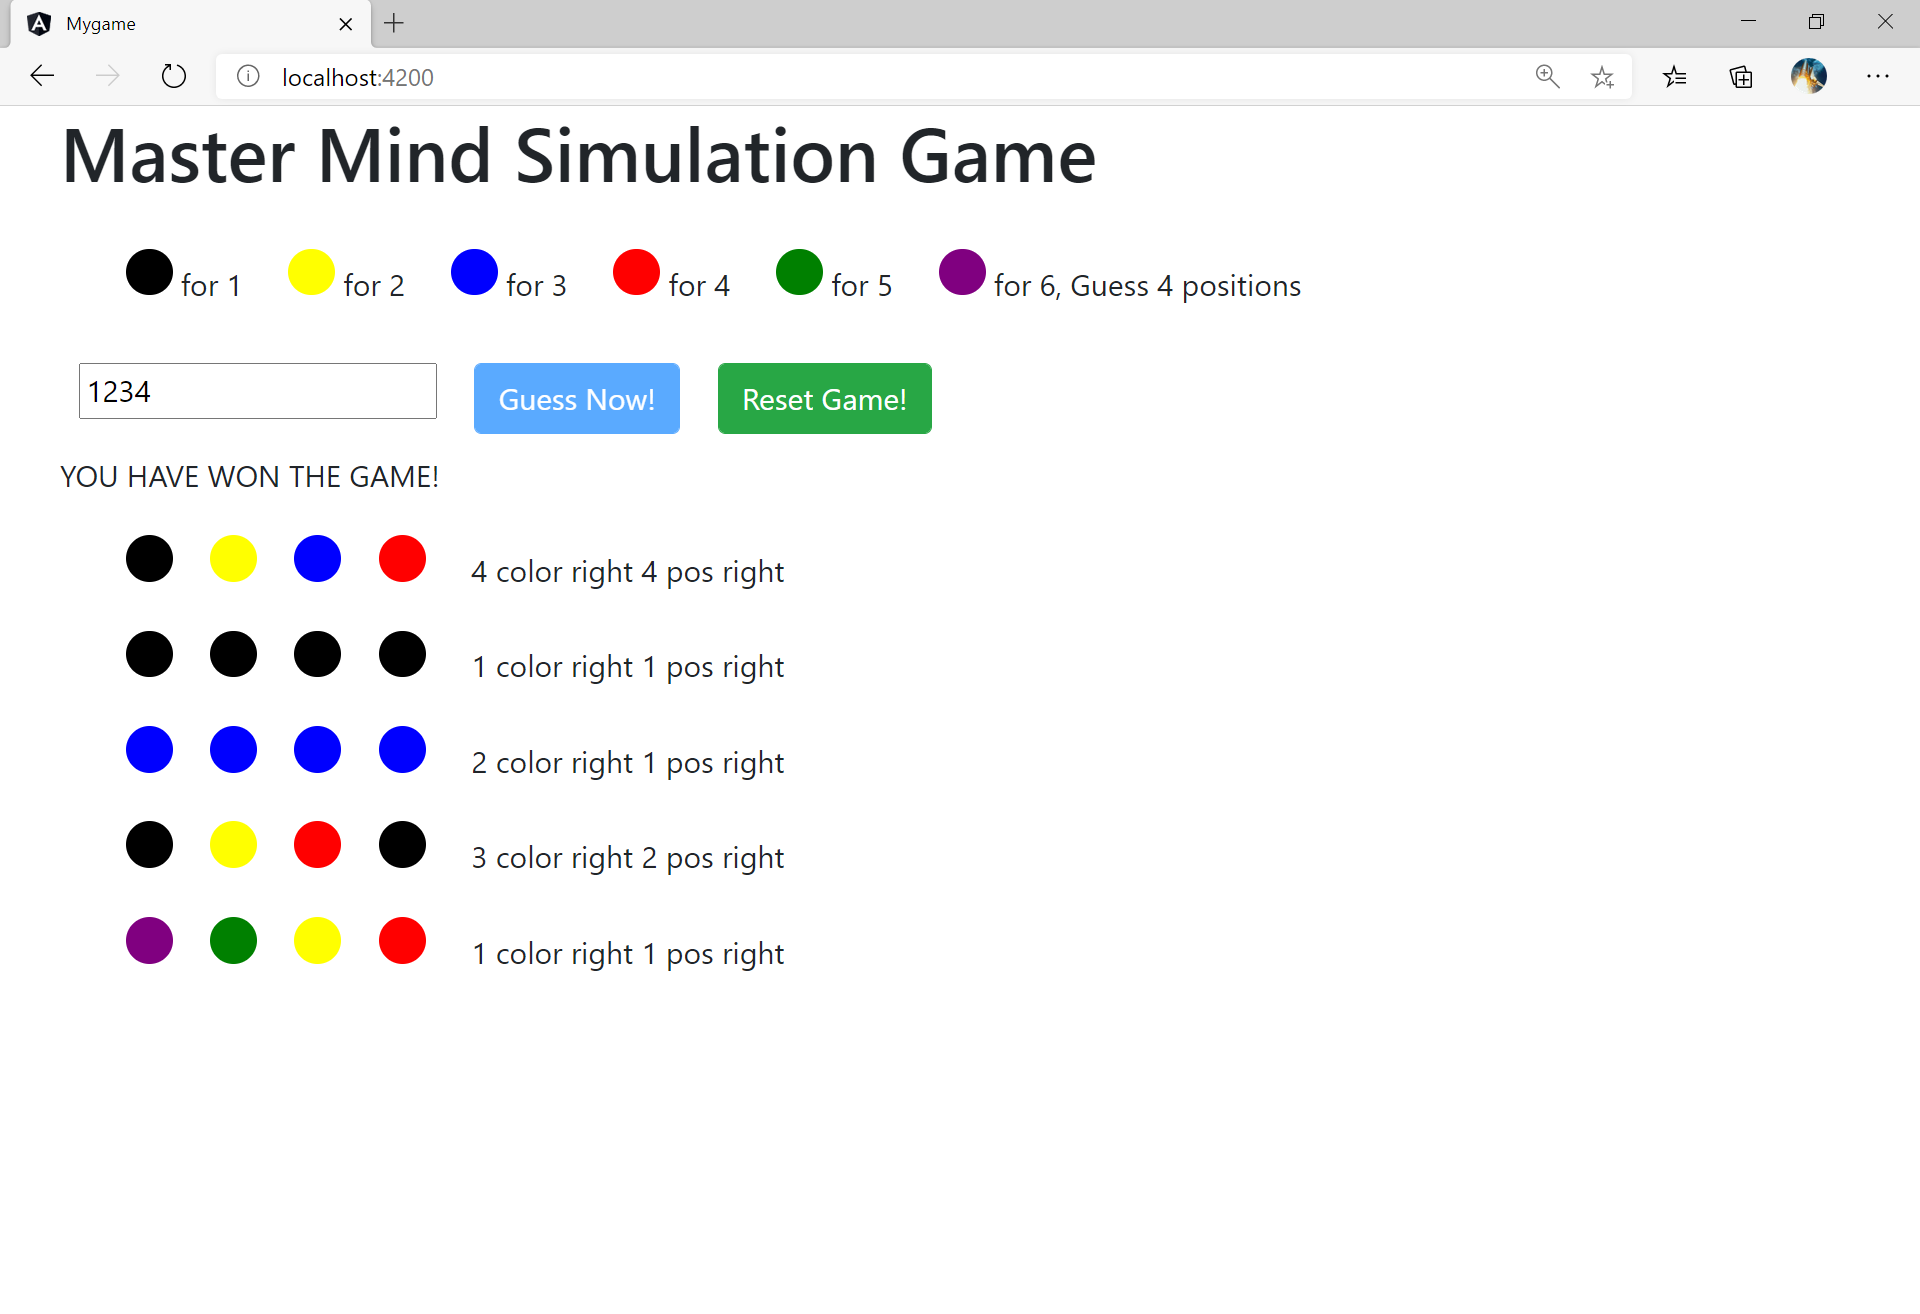
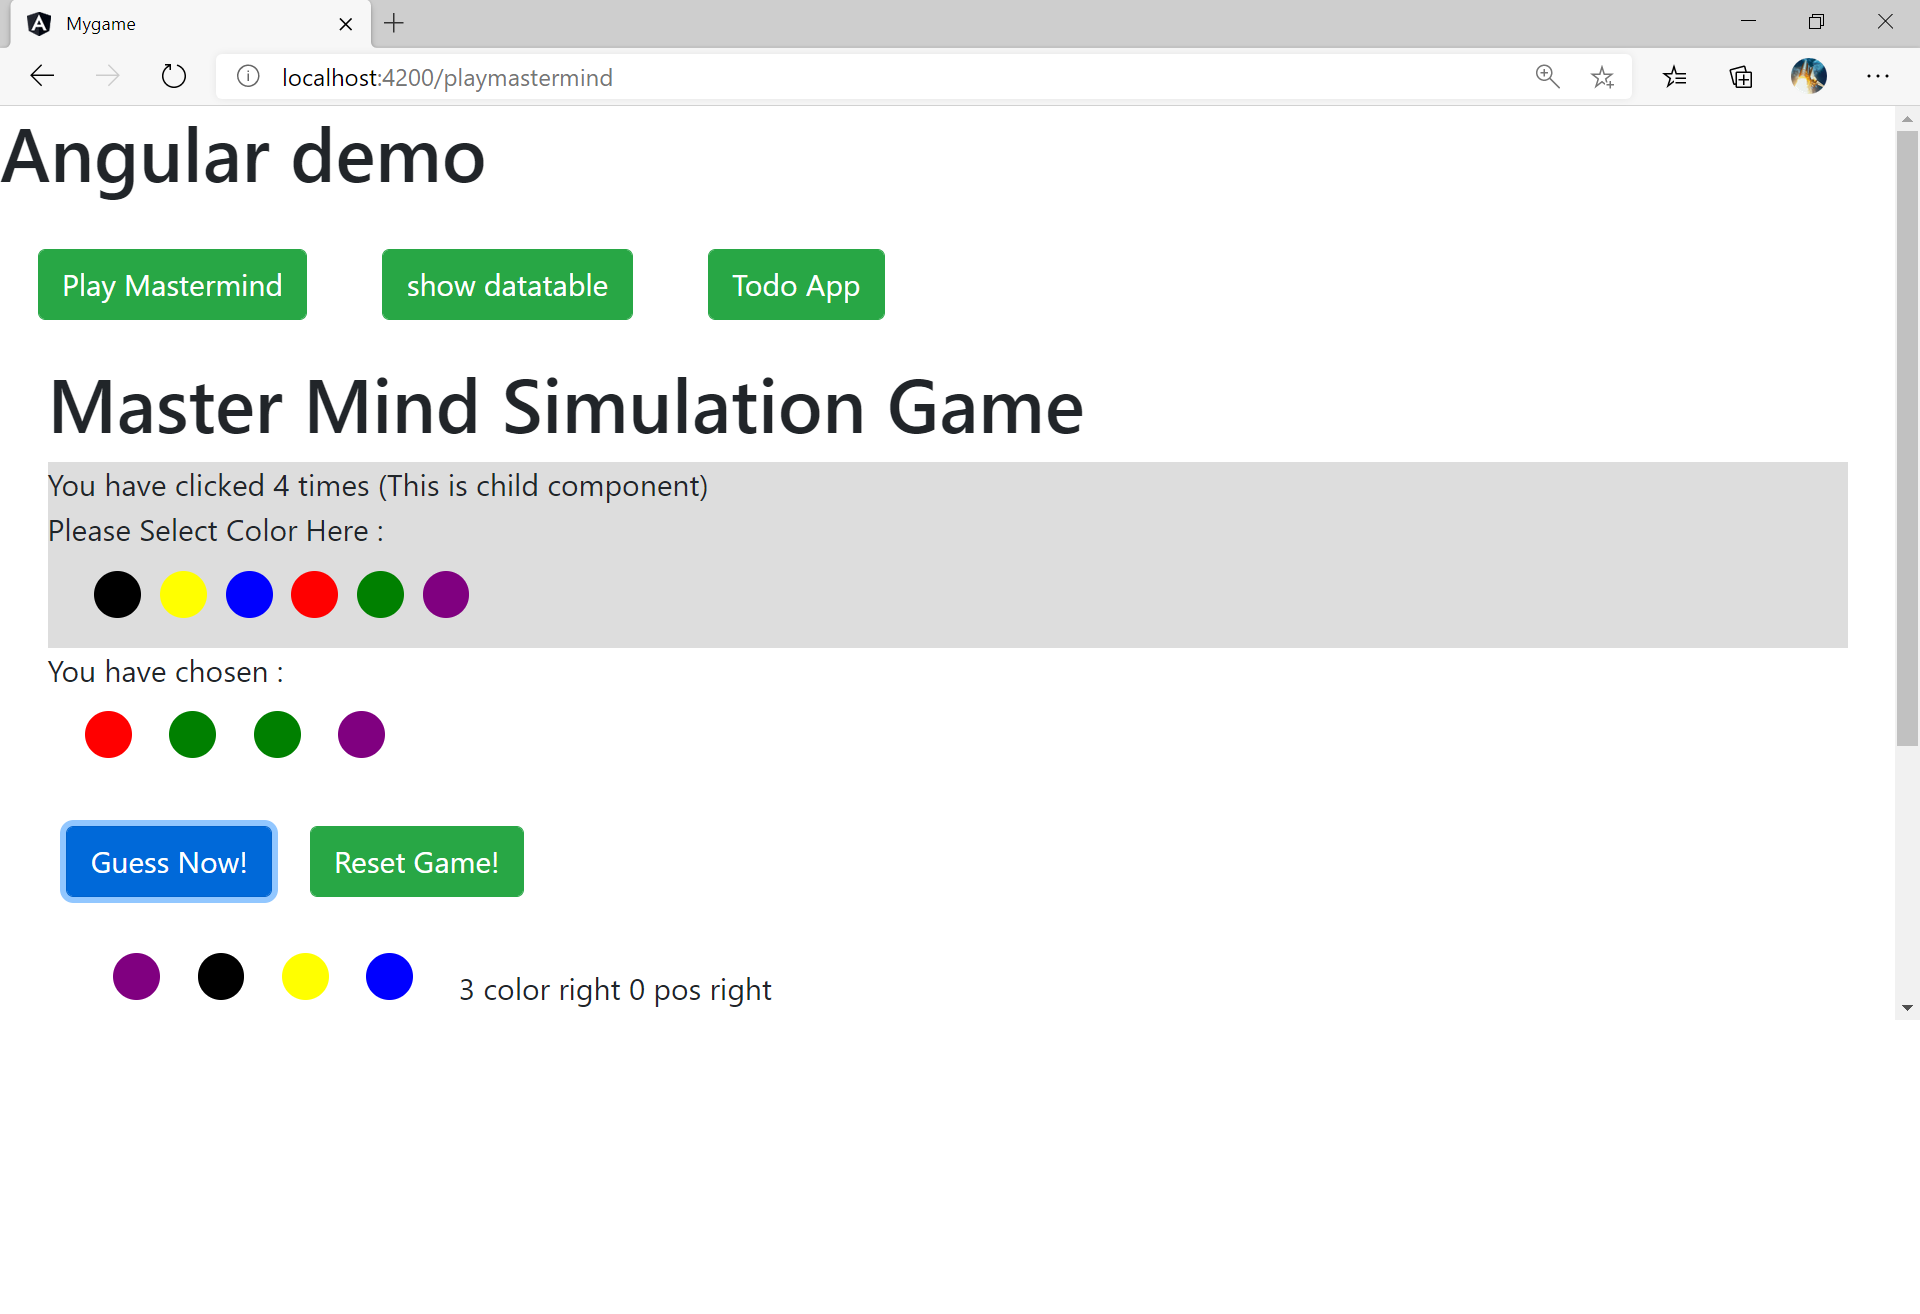
child-parent communication

diff --git a/src/app/gamemap/gamemap.component.html b/src/app/gamemap/gamemap.component.html
@@ -7,6 +7,8 @@
     </div>
   </div>
 
+  <app-colorselector [masterTrial]=clickedNumber (colorChosenRequest)="onJustChoseAColor($event)"></app-colorselector>
+<!--
   <div class="row"  style = "margin-top:20px" >
     <div class="col-sm">
          <span class="dot" [style.background-color]="getColorIdx(1)"></span> for 1
@@ -14,32 +16,46 @@
          <span class="dot" [style.background-color]="getColorIdx(3)"></span> for 3
          <span class="dot" [style.background-color]="getColorIdx(4)"></span> for 4
          <span class="dot" [style.background-color]="getColorIdx(5)"></span> for 5
-         <span class="dot" [style.background-color]="getColorIdx(6)"></span> for 6, Guess 4 positions 
-        
-         
+         <span class="dot" [style.background-color]="getColorIdx(6)"></span> for 6, Guess 4 positions     
     </div>
-
   </div>
+-->
 
 
-  <div class="row" style="margin-top:20px">
-  <span style="margin:10px">
-    <input type="text" [(ngModel)]="myCurrentGuess" /> 
-    </span>
-    <span style="margin:10px">
-    <button type="button" class="btn btn-primary" [disabled]="hasGameWon() == true" (click)="onGuessNow()" >Guess Now!</button>
-    </span>
-    <span style="margin:10px">
-    <button type="button" class="btn btn-success" (click)="onResetGameNow()" >Reset Game!</button>   
-    </span>
-  </div>
+  
 
   <div class="row">
      <span *ngIf="hasGameWon() == true">
        YOU HAVE WON THE GAME!
     </span> 
   </div>
-   
+
+   <!-- Draw your currently chosen Balls -->
+   <div class="row">
+     You have chosen :
+   </div>
+   <div class="row"  style = "margin-top:10px; margin-bottom:10px;" >
+         
+        <!-- your {{i+1}}th guess is {{item}} -->
+         <span *ngFor="let currBallColor of currentGuessBallList; index as i; ">
+            <span class="dot" [style.background-color]="currBallColor"></span> 
+          </span>
+    </div>
+    <div class="row" style="margin-top:20px">
+      <!--
+      <span style="margin:10px">
+        <input type="text" [(ngModel)]="myCurrentGuess" /> 
+        </span>
+        -->
+        <span style="margin:10px">
+        <button type="button" class="btn btn-primary" [disabled]="hasGameWon() == true" (click)="onGuessNow()" >Guess Now!</button>
+        </span>
+        <span style="margin:10px">
+        <button type="button" class="btn btn-success" (click)="onResetGameNow()" >Reset Game!</button>   
+        </span>
+      </div>
+
+
     <div class="row"  style = "margin-top:20px" *ngFor="let item of getGuessHistoryReverse(); index as i; ">
       <div class="col-sm">
            <!-- your {{i+1}}th guess is {{item}} -->
@@ -73,10 +89,7 @@
     <p></p>
     <p></p>
     <p></p>
-<p>Debug session :</p>
-<p>My current guess is {{myCurrentGuess}}</p>
-<p>guess position right : {{currentGuessResult.posRightCount}}</p>
-<p>guess color right  : {{currentGuessResult.colorRightCount}}</p>
-<p>is game Win : {{currentGuessResult.isGuessWinGame}}</p>
-<p>Hidden real answer : {{hiddenRealAnswer}}</p>
+<p>Debug session : {{debugSelectedColor}}</p>
+<p>Ball List : {{currentGuessBallList.length}}</p>
+
 -->

diff --git a/src/app/gamemap/gamemap.component.ts b/src/app/gamemap/gamemap.component.ts
@@ -10,6 +10,8 @@ import { GuessResult } from '../GuessResult';
 })
 export class GamemapComponent implements OnInit {
 
+
+  justClickedBall : string = "";
   clickedNumber : number = 0;
   myCurrentGuess : string = "";
   gameServiceDebugStr : string = "";
@@ -17,7 +19,8 @@ export class GamemapComponent implements OnInit {
   guessResultArrayReversed : GuessResult[] = [];
   guessResultArrayDescriptionReversed : string[] = [];
   hiddenRealAnswer : string  = "";
-
+  debugSelectedColor : string = "";
+  currentGuessBallList : string[] = [];
   constructor(private gameService : GameService) { 
     this.reInitData();
   }
@@ -30,6 +33,8 @@ export class GamemapComponent implements OnInit {
     this.hiddenRealAnswer = this.gameService.getRealAnswer();
     this.guessResultArrayReversed = [];
     this.guessResultArrayDescriptionReversed = [];
+    this.currentGuessBallList = [];
+    
   }
   
   
@@ -46,12 +51,16 @@ export class GamemapComponent implements OnInit {
 
   onGuessNow() {
     // assume the input format is correct , TODO : do form checking ... 
+    if( this.currentGuessBallList.length >= 4) {
+      this.updateGuessFromChosen();
+      this.currentGuessResult = this.gameService.processGuess(this.myCurrentGuess);
+      //this.gameService.addToGuessList(this.myCurrentGuess);
     
-    this.currentGuessResult = this.gameService.processGuess(this.myCurrentGuess);
-    //this.gameService.addToGuessList(this.myCurrentGuess);
-    this.clickedNumber++;
-    this.guessResultArrayReversed = this.gameService.getGuesResultHistory().reverse();
-    this.processUIString();
+      this.guessResultArrayReversed = this.gameService.getGuesResultHistory().reverse();
+      this.processUIString();
+      this.clickedNumber++;
+    }
+
     
   }
 
@@ -84,7 +93,31 @@ export class GamemapComponent implements OnInit {
   getColorIdxByPos(guess:string ,pos :number) : string{
     return this.getColorIdx(parseInt(guess.charAt(pos)));
   }
-  
+
+  updateGuessFromChosen(){
+    this.myCurrentGuess = "";
+    for(var colorItemStr in this.currentGuessBallList){
+      this.myCurrentGuess = this.myCurrentGuess.concat(colorItemStr);
+    }
+  }
+  getIdxFromColorStr(colorStr:string) : string{
+    switch(colorStr){
+      case "black":
+        return "1";
+      case "yellow":
+        return "2";
+      case "blue":
+        return "3";
+      case "red":
+        return "4";
+      case "green":
+        return "5";
+      default:
+        return "6";
+    }
+  }
+
+
   getColorIdx(colorIdx : number) : string {
     switch(colorIdx){
       case 1:
@@ -105,4 +138,14 @@ export class GamemapComponent implements OnInit {
   hasGameWon() : boolean {
     return this.gameService.gameState == 1;
   }
+
+
+  onJustChoseAColor(justChosenBall : string ){
+    this.debugSelectedColor = justChosenBall;
+    if ( this.currentGuessBallList.length <  4) {
+      this.currentGuessBallList.push(justChosenBall); 
+    }
+  }
+
+  
 }

diff --git a/e2e/protractor.conf.js b/e2e/protractor.conf.js
@@ -1,0 +1,37 @@
+// @ts-check
+// Protractor configuration file, see link for more information
+// https://github.com/angular/protractor/blob/master/lib/config.ts
+
+const { SpecReporter, StacktraceOption } = require('jasmine-spec-reporter');
+
+/**
+ * @type { import("protractor").Config }
+ */
+exports.config = {
+  allScriptsTimeout: 11000,
+  specs: [
+    './src/**/*.e2e-spec.ts'
+  ],
+  capabilities: {
+    browserName: 'chrome'
+  },
+  directConnect: true,
+  SELENIUM_PROMISE_MANAGER: false,
+  baseUrl: 'http://localhost:4200/',
+  framework: 'jasmine',
+  jasmineNodeOpts: {
+    showColors: true,
+    defaultTimeoutInterval: 30000,
+    print: function() {}
+  },
+  onPrepare() {
+    require('ts-node').register({
+      project: require('path').join(__dirname, './tsconfig.json')
+    });
+    jasmine.getEnv().addReporter(new SpecReporter({
+      spec: {
+        displayStacktrace: StacktraceOption.PRETTY
+      }
+    }));
+  }
+};

diff --git a/src/app/colorselector/colorselector.component.html b/src/app/colorselector/colorselector.component.html
@@ -1,0 +1,18 @@
+<div class="row" style="background-color: #dddddd;">
+    You have clicked {{trial}} times (This is child component)
+</div>
+<div class="row" style="background-color: #dddddd;">
+    Please Select Color Here :
+</div>
+<div class="row" style="background-color: #dddddd;">
+    <div class="col-sm">
+            <span class="dot" (click)="clickedColor('black')" style="background-color:black"></span>
+            <span class="dot" (click)="clickedColor('yellow')" style="background-color:yellow"></span>
+            <span class="dot" (click)="clickedColor('blue')" style="background-color:blue"></span> 
+            <span class="dot" (click)="clickedColor('red')" style="background-color:red"></span> 
+            <span class="dot" (click)="clickedColor('green')" style="background-color:green"></span> 
+            <span class="dot" (click)="clickedColor('purple')" style="background-color:purple"></span> 
+    </div>
+</div>
+
+

diff --git a/src/app/colorselector/colorselector.component.spec.ts b/src/app/colorselector/colorselector.component.spec.ts
@@ -1,0 +1,25 @@
+import { ComponentFixture, TestBed } from '@angular/core/testing';
+
+import { ColorselectorComponent } from './colorselector.component';
+
+describe('ColorselectorComponent', () => {
+  let component: ColorselectorComponent;
+  let fixture: ComponentFixture<ColorselectorComponent>;
+
+  beforeEach(async () => {
+    await TestBed.configureTestingModule({
+      declarations: [ ColorselectorComponent ]
+    })
+    .compileComponents();
+  });
+
+  beforeEach(() => {
+    fixture = TestBed.createComponent(ColorselectorComponent);
+    component = fixture.componentInstance;
+    fixture.detectChanges();
+  });
+
+  it('should create', () => {
+    expect(component).toBeTruthy();
+  });
+});

diff --git a/e2e/src/app.e2e-spec.ts b/e2e/src/app.e2e-spec.ts
@@ -1,0 +1,23 @@
+import { AppPage } from './app.po';
+import { browser, logging } from 'protractor';
+
+describe('workspace-project App', () => {
+  let page: AppPage;
+
+  beforeEach(() => {
+    page = new AppPage();
+  });
+
+  it('should display welcome message', async () => {
+    await page.navigateTo();
+    expect(await page.getTitleText()).toEqual('mygame app is running!');
+  });
+
+  afterEach(async () => {
+    // Assert that there are no errors emitted from the browser
+    const logs = await browser.manage().logs().get(logging.Type.BROWSER);
+    expect(logs).not.toContain(jasmine.objectContaining({
+      level: logging.Level.SEVERE,
+    } as logging.Entry));
+  });
+});

diff --git a/src/app/app.module.ts b/src/app/app.module.ts
@@ -14,6 +14,7 @@ import { AppComponent } from './app.component';
 import { DisplaytableComponent } from './displaytable/displaytable.component';
 import { GamemapComponent } from './gamemap/gamemap.component';
 import { TodoComponent } from './todo/todo.component';
+import { ColorselectorComponent } from './colorselector/colorselector.component';
 
 
 const appRoutes: Routes = [
@@ -29,7 +30,8 @@ const appRoutes: Routes = [
     AppComponent,
     GamemapComponent,
     DisplaytableComponent,
-    TodoComponent
+    TodoComponent,
+    ColorselectorComponent
   ],
   imports: [
     BrowserModule,

diff --git a/src/app/colorselector/colorselector.component.ts b/src/app/colorselector/colorselector.component.ts
@@ -1,0 +1,21 @@
+import { Component, OnInit, Input, Output,EventEmitter } from '@angular/core';
+
+@Component({
+  selector: 'app-colorselector',
+  templateUrl: './colorselector.component.html',
+  styleUrls: ['./colorselector.component.css']
+})
+export class ColorselectorComponent implements OnInit {
+  @Input('masterTrial') trial: number =0;
+  @Output() colorChosenRequest  = new EventEmitter<string>();
+
+  constructor() { }
+
+  ngOnInit(): void {
+  }
+
+  clickedColor(selected: string){
+    this.colorChosenRequest.emit(selected);
+  }
+
+}

diff --git a/src/app/todo-data-service.service.ts b/src/app/todo-data-service.service.ts
@@ -28,7 +28,7 @@ export class TodoDataServiceService {
     var dateParts = dateString.split("/");
 
     
-    var dateObject = new Date(+dateParts[2], dateParts[1] - 1, +dateParts[0]); 
+    var dateObject = new Date(+dateParts[2], +dateParts[1] - 1, +dateParts[0]); 
 
     this.todoList.push(new TodoJob(this.nextIdx,desc,dateObject));
     // for real application , this is an HTTP POST to backend server. 

diff --git a/src/app/colorselector/colorselector.component.css b/src/app/colorselector/colorselector.component.css
@@ -1,0 +1,19 @@
+.dot {
+    height: 25px;
+    width: 25px;
+    background-color: #bbb;
+    border-radius: 50%;
+    display: inline-block;
+    margin-left: 10px;
+    margin-top: 10px;
+    margin-bottom: 10px;
+  }
+
+.myText{
+    height: 25px;
+    width: 25px;
+    margin-left: 20px;
+    margin-top: 10px;
+    margin-bottom: 10px;
+    display: inline-block;
+}

diff --git a/e2e/src/app.po.ts b/e2e/src/app.po.ts
@@ -1,0 +1,11 @@
+import { browser, by, element } from 'protractor';
+
+export class AppPage {
+  async navigateTo(): Promise<unknown> {
+    return browser.get(browser.baseUrl);
+  }
+
+  async getTitleText(): Promise<string> {
+    return element(by.css('app-root .content span')).getText();
+  }
+}

diff --git a/README.md b/README.md
@@ -7,6 +7,8 @@
 2. http get JSON from JSON server (display.component/api-client-service.service.ts)
 3. Simple Router : app.component.html
 4. Template driven form : /app/todo/todo.component.html
+5. @Input , @Output child-parent component communication
   <!-- Spring Boot Items -->
 
   ![alt text](https://github.com/andersonchau/guess_game_angular/blob/main/screenshot.png?raw=true)
+  ![alt text](https://github.com/andersonchau/guess_game_angular/blob/main/screenshot2.png?raw=true)
